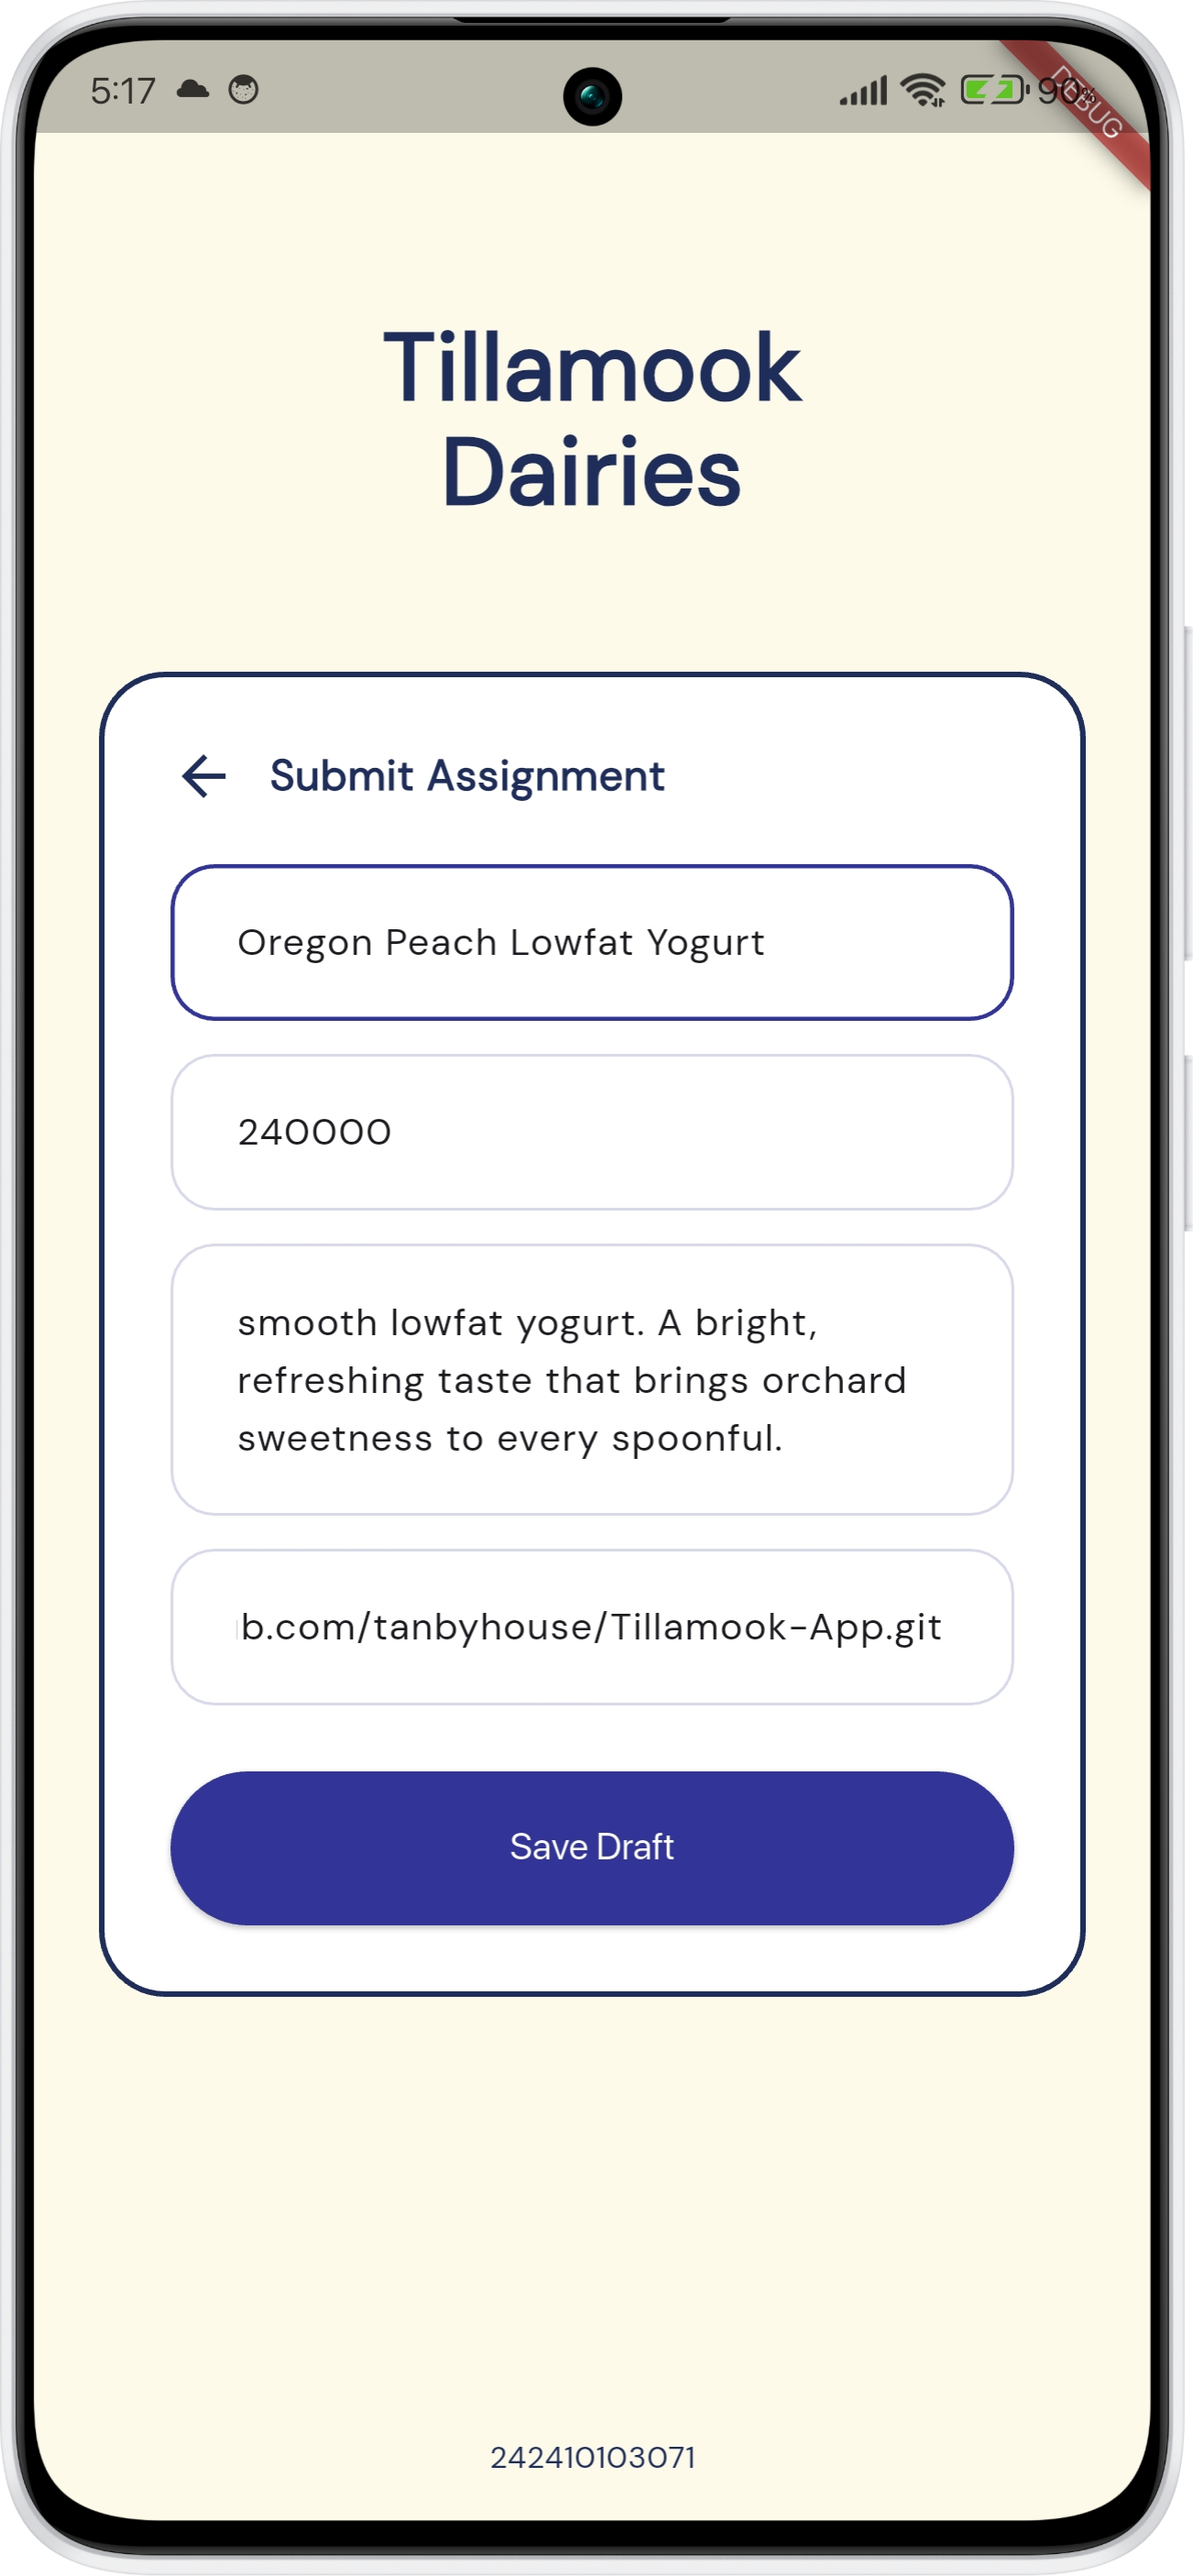
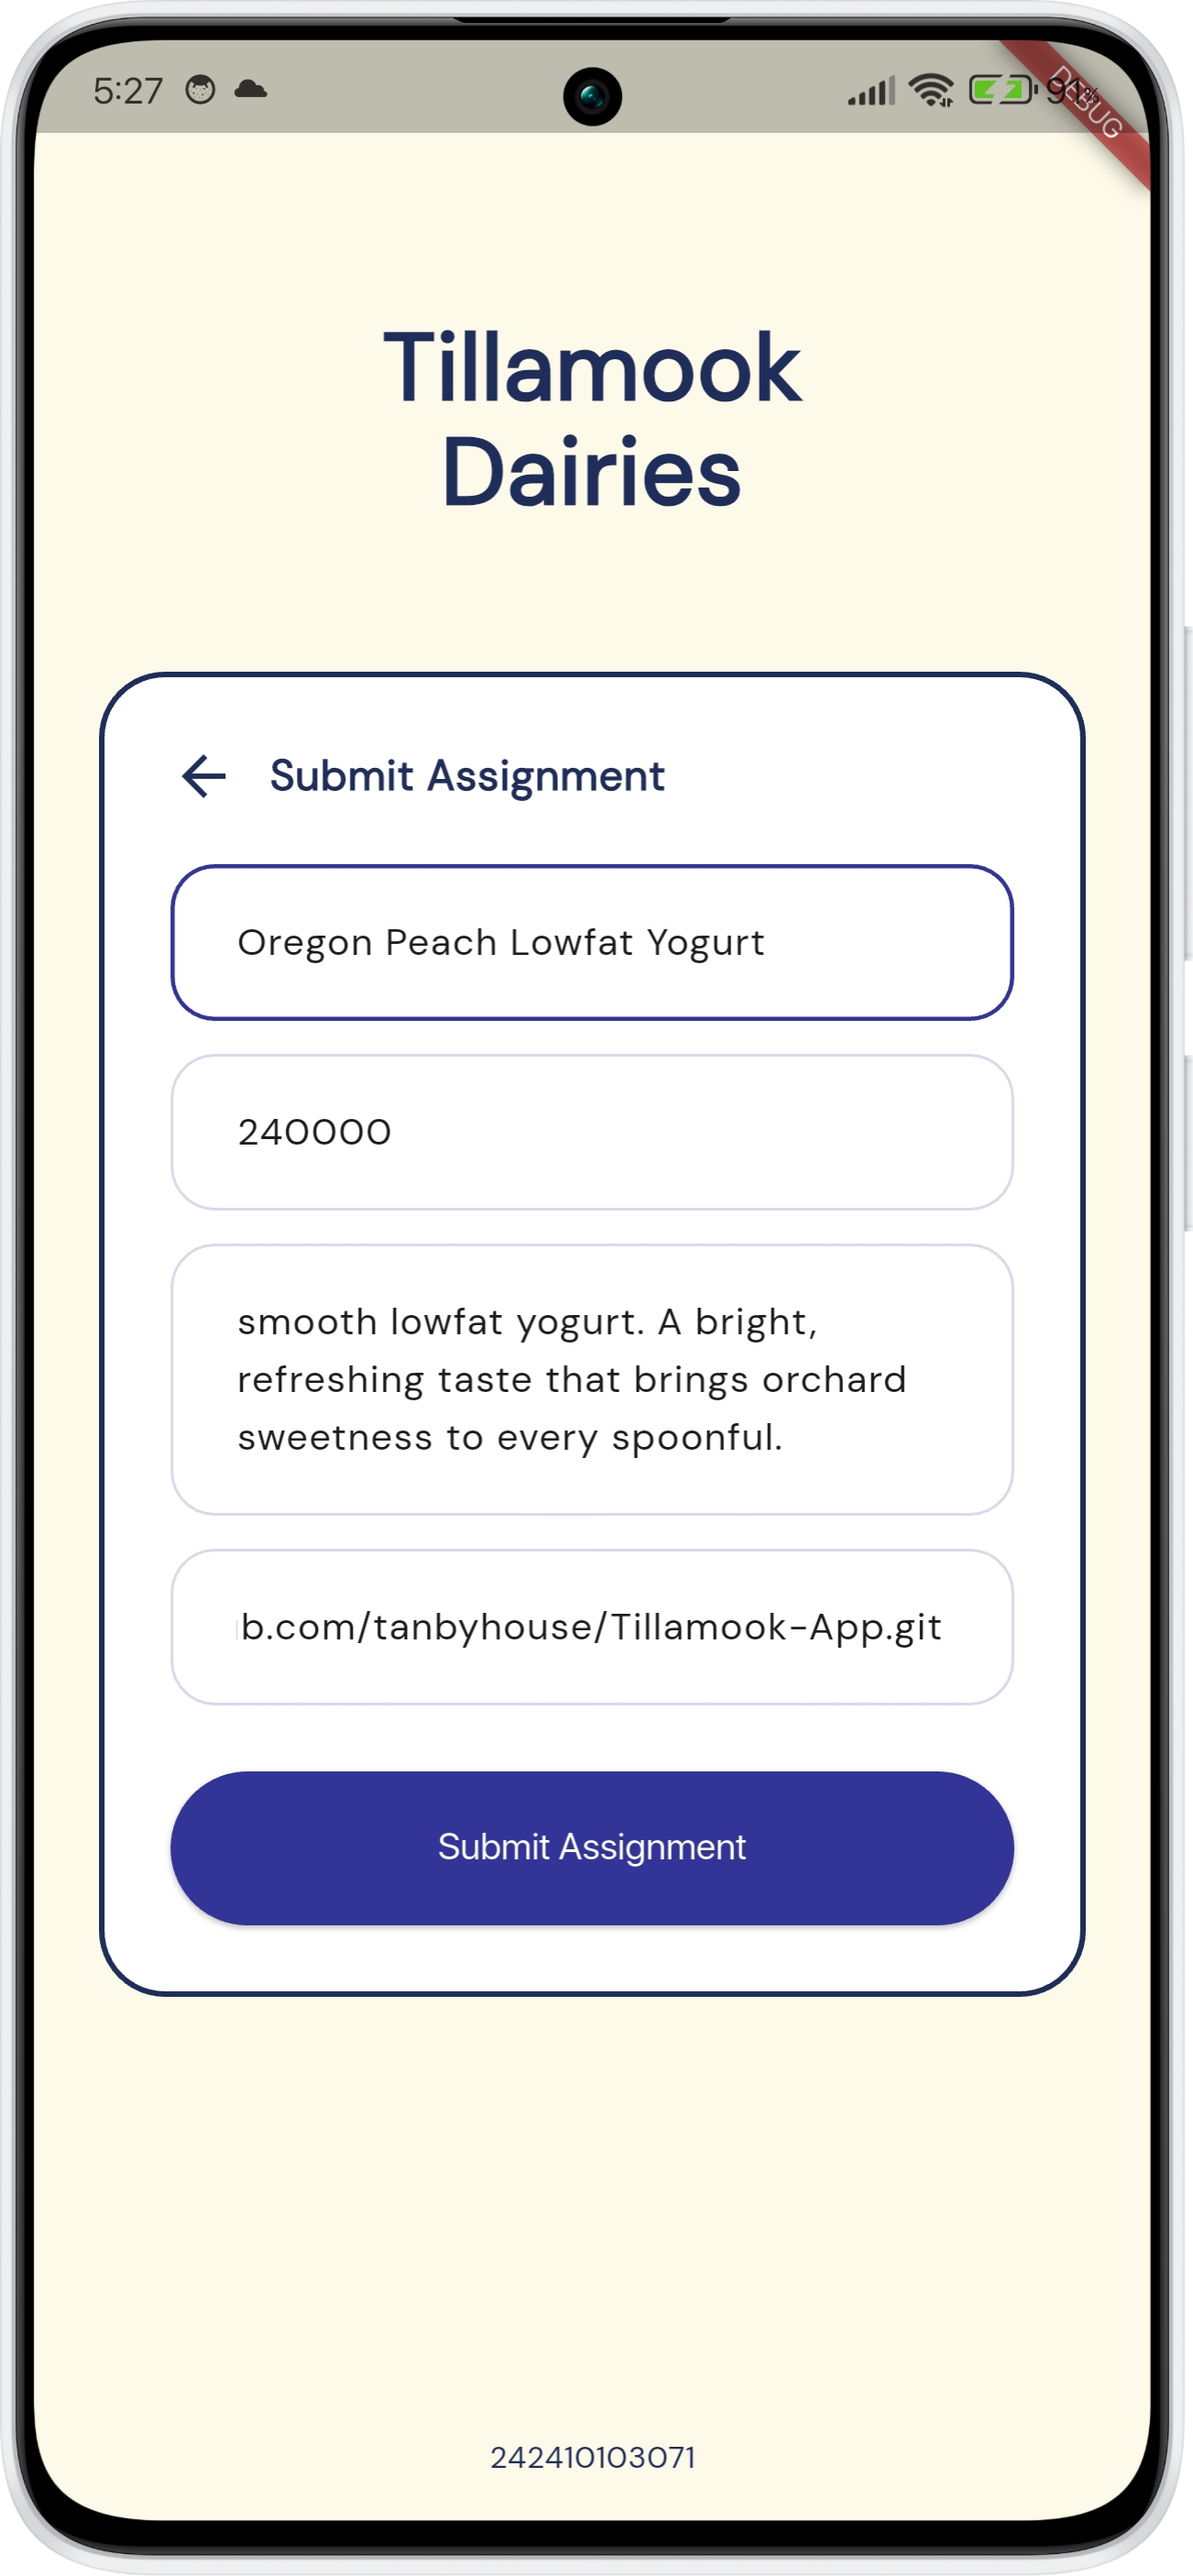
fixed submit button and updated screenshot

diff --git a/lib/screens/submit.dart b/lib/screens/submit.dart
@@ -180,7 +180,7 @@ class _SubmitAssignmentState extends State<SubmitAssignment> {
                                         strokeWidth: 2,
                                       ),
                                     )
-                                  : const Text('Save Draft'),
+                                  : const Text('Submit Assignment'),
                             ),
                           ],
                         ),
